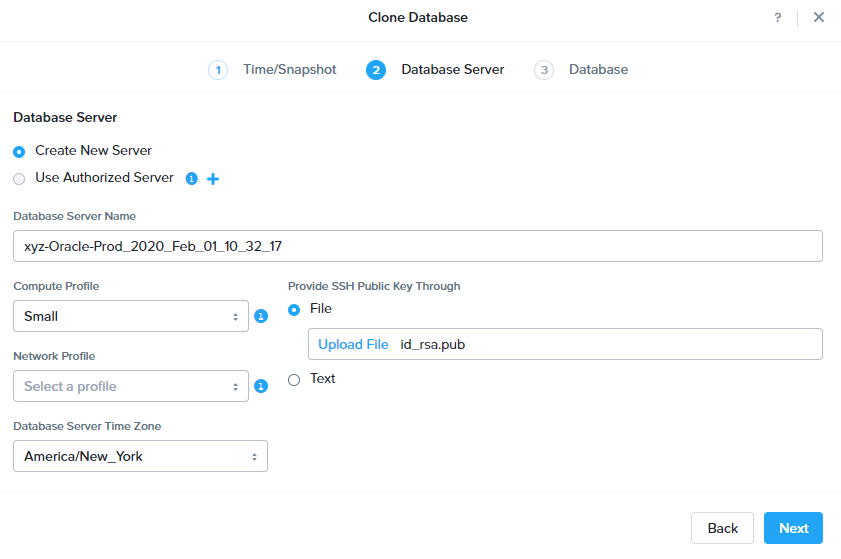
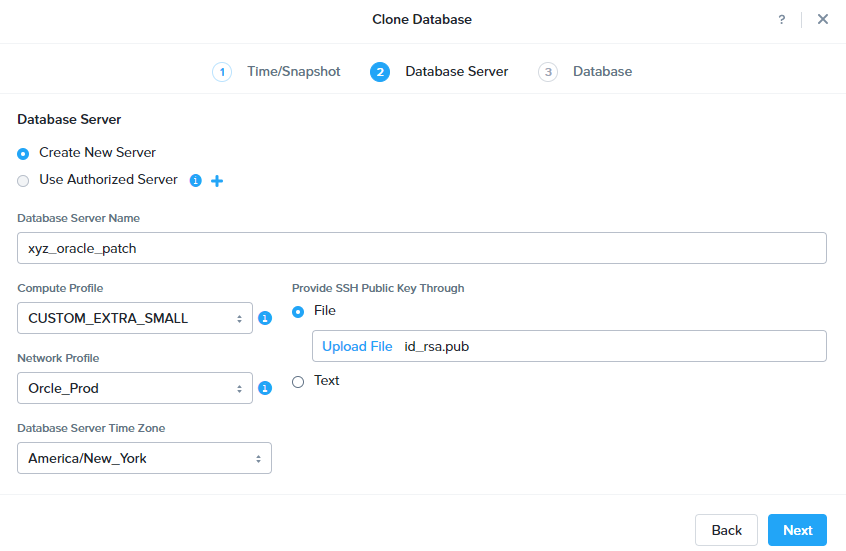
oracleLbas

diff --git a/era_patch_oracle_dbs/era_patch_oracle_dbs.rst b/era_patch_oracle_dbs/era_patch_oracle_dbs.rst
@@ -15,61 +15,19 @@ In this lab we will create a software profile for the oracle database clone the 
 
 Create software Profile of Oracle Databases with Era
 
-
-
-Before Era can be used patch we need a base software profile
-++++++++++++++++++++++++++++++++++++++++++++++++++++++++++++
-
-Create Software Profile for Oracle database
-+++++++++++++++++++++++++++++++++++++++++++
-
-Once the **xyz_ORCL19C** database has been registered with Era, the Time Machine for the database will start creating snapshots and collecting transaction log backups.
-
-#. Open https://*ERA-VM-IP:8443*/ in a new browser tab.
-
-#. Select the **Era > Getting Started** drop down menu and click **Profiles**.
-
-#. Select **Software** in the **Profiles** pane on the left-hand side of the screen.
-
-#. Click **+ Create**.
-
-#. In the **Create Software Profile** Dialog box, select **Oracle** and **Single Instance** then click **Next**.
-
-#. On the **Create Software Profile** screen, select **xyz-Oracle-Prod**  input the following and click **create**:
-    -  **Name** - xyz_oracle_base
-    -  **Description** - (Optional) Description
-
-   .. figure:: images/patchdb_01.png
-
-#. Click xyz_oracle_base to check the progress
-
-# One Software Profile is Created #. Select the **Era > Operations** drop down menu and click **Profiles**.
-
-#. Choose on **xyz_ORCL19C_base** and click **View Versions**
-
-#. Chose Update
-
-#. On the Update Software profile Version choose **Published** and click **Next**;
-
-   .. figure:: images/patchdb_04.png
-#. Fill out any notes you would like and click **next**
-
-#. Click **Update** on next screen
-
-
 Clone server for patching
 +++++++++++++++++++++++++++++++++++++++++++
 
-#. Select the **Era > Time Machines ** drop down menu select xyz_OrCL91c_TM click **Actions, Clone Databse **;
+#. Select the **Era > Time Machines ** drop down menu select xyz_OrCL91c_TM click **Actions, Clone Database **;
 
 #. On the **Clone Database** screen Take Defaults and click **Next**;
    .. figure:: images/patchdb_02.png
 
 #. On the second **Clone Database** screen, input the following and click **Next**:
 
-   -  **Name** - Take Default
-   -  **Compute Profile** - Small
-   -  **Network Profile** - Prod - Oracle
+   -  **Name** - initials_oracle_patch
+   -  **Compute Profile** - CUSTOM_EXTRA_SMALL
+   -  **Network Profile** - Orcle_Prod
    -  **Provide SSH Public Key Through** - Chose File and Use Provided SSH Key
    -  **Database Server Time Zone** - Choose Local Time Zone
 
@@ -77,24 +35,43 @@ Clone server for patching
 
 #. On the third **Clone Database** screen, input the following and click **Clone**:
 
-   -  **Name** - Take Default
+   -  **Name** - initials_oracle_patch
+   -  **SID** - initialspat
    -  **Description ** - (Optional) Description
    -  **SYS and SYSTEM Password** - nutanix/4u
-   -  **Database Parameter Profile** - Small Oracle
+   -  **Database Parameter Profile** - Oracle_Extra_Small
 
-   .. figure::  images/patchdb_03.png
+   .. figure::  images/patchdb_04.png
 
 #. Monitor the registration operation by clicking **ORCL19C_2020_(current date)**.
 
    .. note::
 
-     Wait for the operation to successfully complete before attempting to register another SQL Server database.
+     This will take about 15 mins.
 
-Patch Server VIA SSH
+Patch Cloned Server VIA SSH
 ....................
-Apply any Oracle and OS patches via the cli
+Apply any Oracle Patches to Clone Server
 
-need this instructions
+#. Select the **Era > Database Servers ** and click Cloned DB Servers
+
+#. Click on **initials_oracle_patch**
+
+#. Click **See Description** under Connect via SSH
+
+   .. figure:: images/patchdb_06.png
+
+#. Use the ip address listed to connect to vm from your tools vm with putty
+    - **username** - oracle
+    - **password** - Nutanix/4u
+
+#. Once logged into the vm type bash
+
+#. run the command below
+   - sudo /root/Downloads/applypsu.sh
+   - press enter to start patch
+   - You can ignore any errors about directories not existing.
+# type exit three times to exit
 
 Update Software Profile
 .......................
@@ -105,31 +82,44 @@ Update the software profile of the patched server to use for patching existing s
 
 #. Select **Software** in the **Profiles** pane on the left-hand side of the screen.
 
-#. Chose **xyz_ORCL19c_base** and click **View Versions**
+#. Chose **initials_oracle_base** and click **View Versions**
 
-#. Chose **xyz_ORCL19c_base(1.0)** and click **+ Create**
+#. Chose **initials_oracle_base(1.0)** and click **+ Create**
 
 #. On the **Crate Software Profile** chose the server you cloned input the following and click **create**:
-    -  **Name** - xyz_ORCL19C_patched
+    -  **Name** - initials_oracle_patched
     -  **Description** - (Optional) Description
 
    .. figure:: images/patchdb_05.png
 
-#. Click xyz_ORCL19C to check the progress
+#. Select initials_oracle_patched to check the progress
+
+#. Once creation of profile is complete, go back to **Software Profiles**
+
+#. Chose **initials_oracle_base** and click **View Versions**
+
+#. Chose **initials_oracle_patched** and click **Update**
+
+# Select **Published** and click **Next** three times.
+   .. figure:: images/patchdb_07.png
+#
 
 Patch Prod Sever
 ................
 
-First we must update the orginal software profile with the unpatch Prod Server
+Now that we have a published patched software profile we can patch your original "Prod" Servers
 
-#. Select the **Era > Getting Started** drop down menu and click **Profiles**.
+# Select the **Era >* drop down menu and click **Database Servers**.
 
-#. Select **Software** in the **Profiles** pane on the left-hand side of the screen.
+# Under Oracle Click on **Source DB Servers**
 
-#. Chose  **xyz_ORCL19-Prod** and click **View Versions**
+# Select on  **initials_oracle_prod**
 
-#. Chose **xyz_Oracle** and click **+ Create**
+# Scroll Down to Profiles, you should see update available
+  .. figure:: images/patchdb_08.png
 
-#. On the **Crate Software Profile** chose the server you cloned input the following and click **create**:
-    -  **Name** - xyz_ORCL19C_base
-    -  **Description** - (Optional) Description
+# Select **Update**
+
+# On Patch 1 Database(s) on server Screen make sure Now is selected and click patch Database
+  .. figure:: images/patchdb_09.png
+# Click on operations to see patch progress
